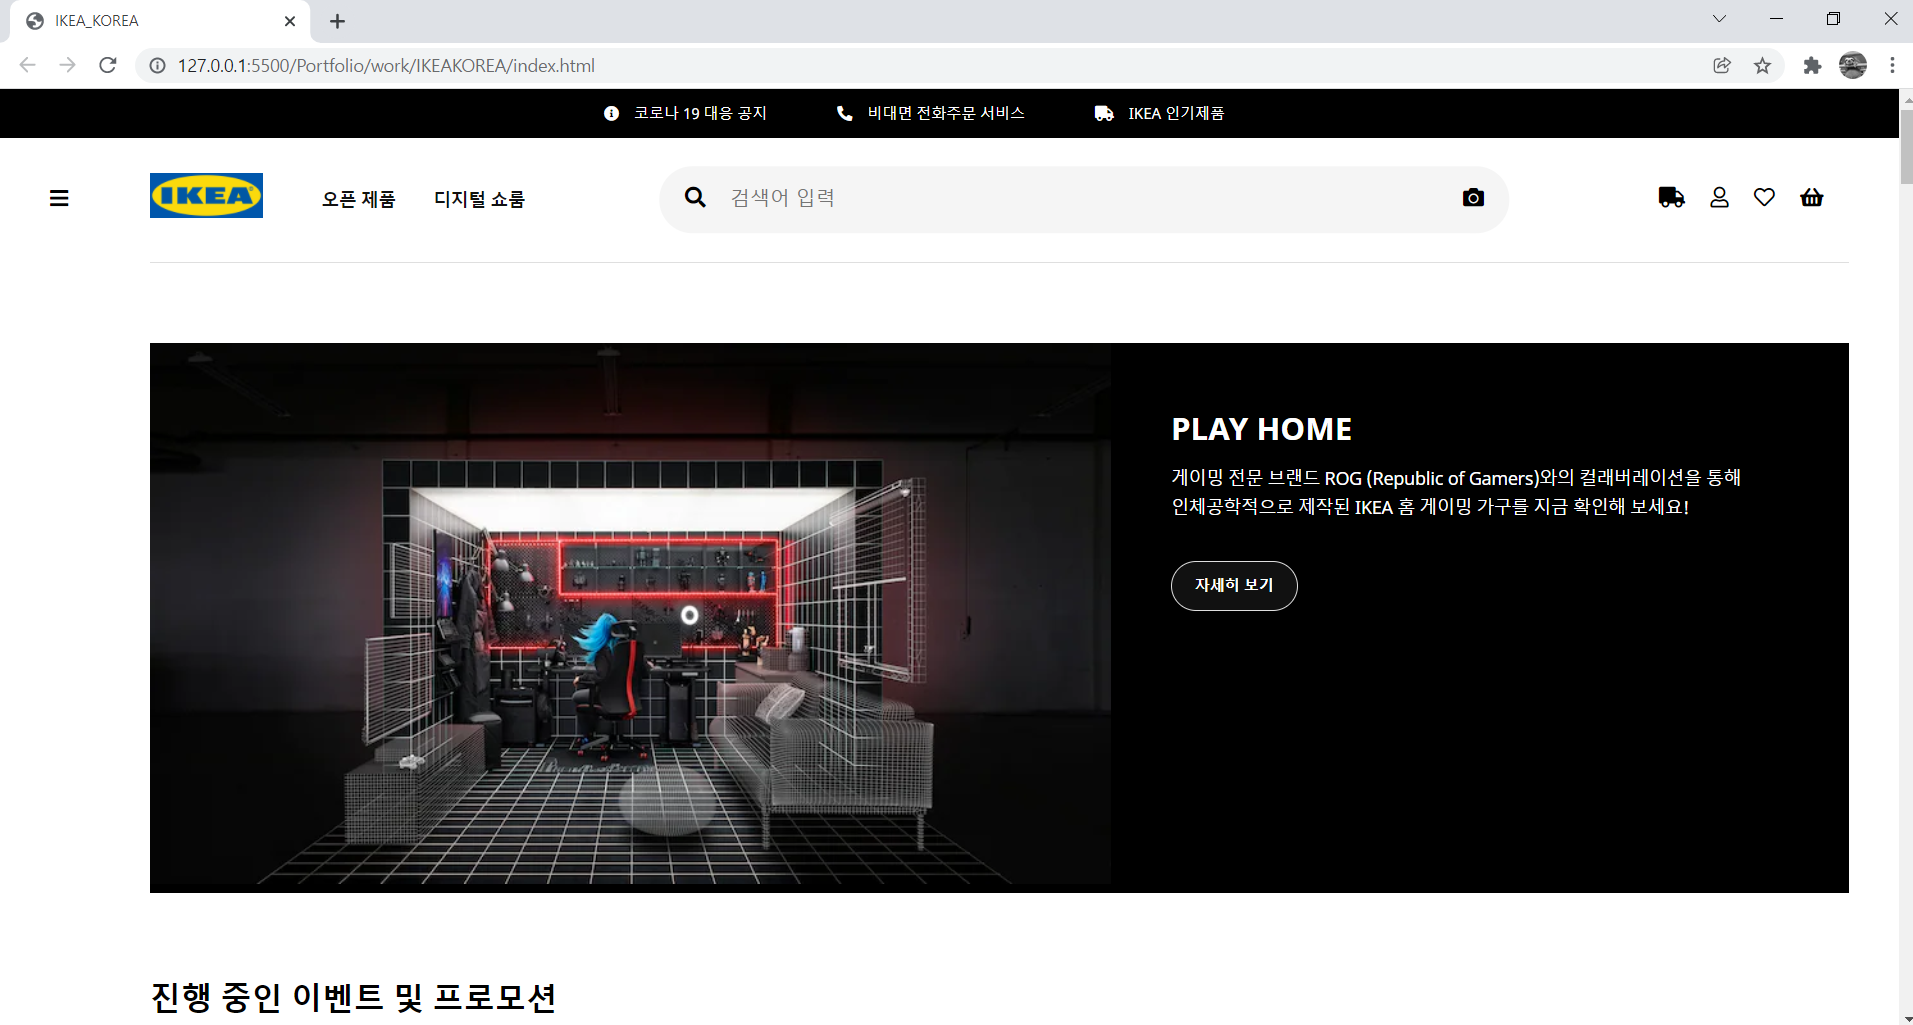
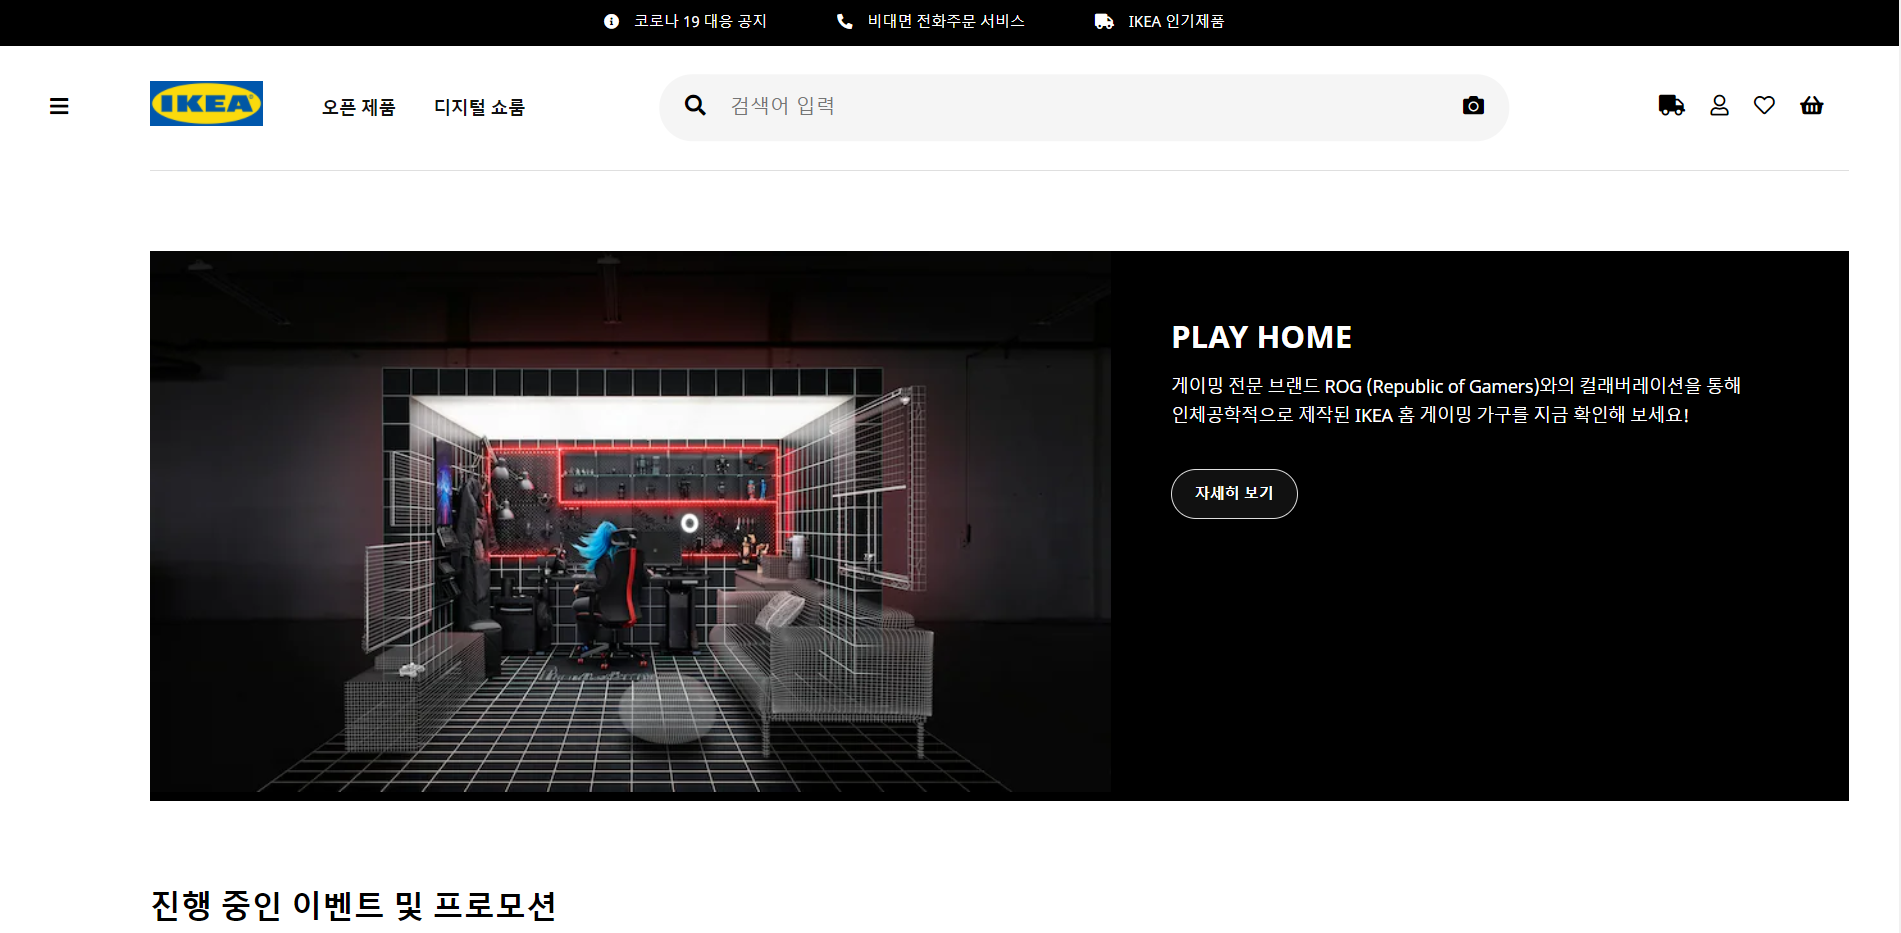
-

diff --git a/index.html b/index.html
@@ -215,7 +215,7 @@
                   id="slide-img-3"
                 />
                 <img
-                  src="./assets/slide-img-4.jpg"
+                  src="./assets/coding-player-list-4.png"
                   alt=""
                   class="slide-img-4"
                   id="slide-img-4"
